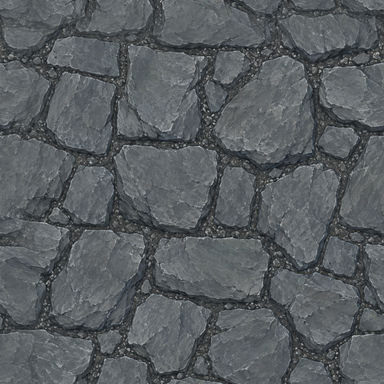
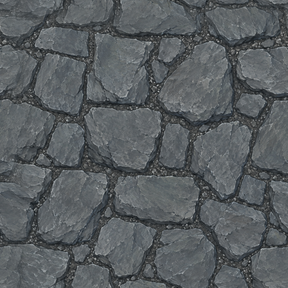
石壁を細かい石積みへ + 左右のリングを薄く + 行き先の通路の口を開ける
ユーザー指摘 3 件への対応。
  ①「周りの壁の、石の画像の縮尺が、大きく感じる」
  ②「幅がありすぎる。もう少し、左右の石壁は特に幅を、薄く」
  ③「行先の選択肢方向の通路が石壁でふさがれている (閉じ込められて見える)」

① 天面素材を再生成 (--tiles 4 -> 3 / --feather 48 -> 32)。ブロック径 72px -> 53px。
   72px = 3/4 タイルはキャラの肩幅とほぼ同じで、見下ろしの石積みとしてはまだ岩が大きかった。
   53px なら「壁の厚み 1 タイルに石が 2 個弱」= 積んだ石として読め、立面のレンガ (約 55x30px)
   とも釣り合う。⚠ --tiles 2 (36px) までは落とさない。反復周期が 2 タイル = 192px しかなくなり、
   南側 2 タイル幅のリングで繰り返しが目に付く。
   ⚠ --block は表示だけで効かない (実際のレバーは --tiles/--feather) と docstring に明記した。

② ROOM_WALL_RING を縦横へ分離: ROOM_WALL_RING_X=1 / ROOM_WALL_RING_Y=2。
   真因は可視域の恒等式が縦横で非対称なこと。1 ノード = 7x6 の部屋では
       縦に映る壁 = (usableH-576)/2 … 実測 27〜85px = 1 タイルに満たない
       横に映る壁 = (usableW-672)/2 … desktop で 141〜164px = 1.5〜1.7 タイル
   同じ R=2 だと南北は 2 枚目が原理的に画面へ入らないのに、左右だけ 2 枚とも入る = 分厚く見える。
   ⚠ RY は 1 へ落とさない (北壁の立面が (ty-1) 行まで 192px 覆うため)。
   ⚠ 効くのは屋内 6 シナリオ全部 (isRoomEdgeWall は共通)。屋外は 1 命令も変わらない。

③ wallOpenTiles を追加。出口の向き (node.exits[].dir + DIR_OPPOSITE[nodeEnteredVia] = 来た道) の
   ゲートタイルの外側だけ、石を敷かない。
   ⚠ mapData は 1 バイトも変えない = 歩行判定・aStar・視線は不変。描画パス専用のマスク。
   ⚠ 床は敷かない (歩けそうに見えるため)。Pass 1a の暗い天井が残って「闇へ続く口」になる。
   ⚠ 抜くのは isVergeCell 1 箇所 + Pass 2b の 1 行。前者でパターン枝・404 枝・端キャップ・
     Pass 2.1 の色寄せが同じ穴になる。
   ⚠ 起動直後の入口ノードは buildNode を通らないので、DIR_OPPOSITE 宣言の直後で 1 回作る
     (nodeEnteredVia より前に置くと TDZ)。松明が口の真下に浮かないよう装飾も組み直す。

検証:
  ・driver_wall_face を 18 -> 21 assert へ拡張し 21/21 PASS。
    - (3b) 追い削りの計測を西 d2 -> 南 d2 へ移した。RX=1 にした結果、西 d2 は石を敷く範囲の外に
      なるので、そのままだと「正しい変更が永久に赤い」検出器になる。南は RY=2 のままなので
[…]

diff --git a/index.html b/index.html
@@ -3968,6 +3968,19 @@
      *   直結しており、岩盤に湧いた敵が可視化されると戦闘開始の前提が変わる (前回の判断を踏襲)。
      * ⚠ 「今の部屋だけ」なのは意図。累積にすると通り過ぎた部屋の外周だけが光って残る。 */
     let wallLitTiles  = Array.from({ length: MAP_H }, () => new Uint8Array(MAP_W));
+    /* ★[通路の口 2026-08-09] wallOpenTiles: 「行き先の通路が抜けている壁セル」=1 → 石を敷かない。
+     *   ユーザー指摘「行先の選択肢方向の通路が石壁でふさがれている (閉じ込められて見える)」の解。
+     *   分岐マップでは 1 ノード = 1 部屋なので、リングを四方へ回した結果**出口の矢印の先まで
+     *   石で塞がって**しまい、隣のノードへ続く道が絵に出ていなかった。
+     * ⚠ null = 「開口なし」= 既存 6 シナリオ / 屋外 / 自作マップ (RUN が無い経路は 1 命令も走らない)。
+     * ⚠ **mapData は 1 バイトも変えない**。ここは描画パス専用のマスクであり、開口セルは今も壁
+     *   (歩行判定・aStar・視線は不変)。石を敷かないので Pass 1a の暗い天井がそのまま残り、
+     *   「石壁に空いた、闇へ続く口」として読める。床を敷くと歩けそうに見えるので敷かない。
+     * ⚠ 寿命はノード。出口の向きはノードごとに違うので buildNode() で必ず作り直す。 */
+    let wallOpenTiles = null;
+    function isWallOpening(tx, ty) {
+      return !!(wallOpenTiles && wallOpenTiles[ty * MAP_W + tx]);
+    }
     let lastVisSignature = "";
 
     // ── 部屋ペインティング(painterly オーバーレイ)──────────────────
@@ -4650,7 +4663,10 @@
 
           // 北壁の真下 → 松明(壁面に取り付ける) — 他の装飾はいったん廃止
           // 旧 h%11 (1/11) は疎すぎて部屋に1個も入らないことがあった → h%5 (1/5) に
-          if (wallN && (h % 5 === 0)) { place(tx, ty, 'torch', -8); continue; }
+          // ★[通路の口 2026-08-09] 開口の真下には吊るさない。石が無い所に松明だけが浮く。
+          if (wallN && (h % 5 === 0) && !isWallOpening(tx, ty - 1)) {
+            place(tx, ty, 'torch', -8); continue;
+          }
         }
       }
       return decos;
@@ -5225,23 +5241,32 @@
     }
 
     /* ★[石壁の可視化 2026-08-08] 部屋を囲む石壁のリング (屋内のみ)。
-     *   「床からチェビシェフ距離 ROOM_WALL_RING 以内にある壁セル」を Pass 2 が石で塗る。
+     *   「床から X 方向 RX / Y 方向 RY 以内にある壁セル」を Pass 2 が石で塗る。
      *   これ以前は isNorthWall (= 北側だけ) しか塗っていなかったので、1ノード=1部屋になった
      *   分岐マップでは**部屋が黒い虚空に浮いて**見えていた (下・左・右が SPR_CEILING の純黒)。
-     * ⚠ 距離は**チェビシェフ (斜めも 1)** であること。4近傍で数えると部屋の四隅が 1 枚だけ
+     * ⚠ 範囲は**矩形 (斜めも含む)** であること。4近傍で数えると部屋の四隅が 1 枚だけ
      *   塗り残されて黒く欠ける (角の壁セルは床と斜めにしか接していないため)。
-     * ⚠ ROOM_WALL_RING を増やしても**北壁の高さは変わらない**。北壁は Pass 2 側で
-     *   isNorthWall のセルだけ (ty-1)*96 から 192px の「正面が見える壁」として描くため、
-     *   北側の石の帯は R によらず常に 2 タイル分になる (R=1 でも R=3 でも同じ)。
-     *   厚みが効くのは南・東・西だけ。ここは意図した非対称 (見下ろし視点の約束事)。
+     *
+     * ★[2026-08-09] 縦横を分けた。ユーザー指摘「幅がありすぎる。左右の石壁は特に薄く」の解。
+     *   真因は**可視域の恒等式が縦横で非対称**なこと。1 ノード = 7x6 の部屋では
+     *       縦に映る壁 = (usableH - 576) / 2 … 実測 27〜85px = **1 タイルに満たない**
+     *       横に映る壁 = (usableW - 672) / 2 … desktop で 141〜164px = **1.5〜1.7 タイル**
+     *   つまり R を縦横で同じ 2 にすると、南北は 2 枚目が原理的に画面へ入らないのに、
+     *   左右だけ 2 枚とも入って「分厚い石の塊」に見える。RX だけ 1 に落とすと左右の石は
+     *   96px で終わり、その外は未探索の暗黒 = 「壁の向こうは闇」になる (意図した見え方)。
+     * ⚠ RY を 1 に落としてはいけない。北壁の立面は (ty-1) 行まで 192px で覆うので、
+     *   wallLitTiles の範囲が 1 行になると立面の上端が暗幕に沈む。
+     * ⚠ RX を増やしても**北壁の高さは変わらない**。北壁は Pass 2 側で isNorthWall のセルだけ
+     *   (ty-1)*96 から 192px の「正面が見える壁」として描くため、北側の帯は R によらない。
      * ⚠ mapData そのものは 1 バイトも変えない = 歩行判定・aStar・視線 (isTileWall) は不変。
      *   ここは**描画パス専用の述語**であり、壁が増えたわけではない。 */
-    const ROOM_WALL_RING = 2;
+    const ROOM_WALL_RING_X = 1;   // 東西 (左右) の厚み
+    const ROOM_WALL_RING_Y = 2;   // 南北の厚み。★立面の 2 行を賄うので 1 へ落とさないこと
     function isRoomEdgeWall(tx, ty) {
       if (tx < 0 || tx >= MAP_W || ty < 0 || ty >= MAP_H) return false;
       if (mapData[ty][tx] !== 2) return false;
-      const y0 = Math.max(0, ty - ROOM_WALL_RING), y1 = Math.min(MAP_H - 1, ty + ROOM_WALL_RING);
-      const x0 = Math.max(0, tx - ROOM_WALL_RING), x1 = Math.min(MAP_W - 1, tx + ROOM_WALL_RING);
+      const y0 = Math.max(0, ty - ROOM_WALL_RING_Y), y1 = Math.min(MAP_H - 1, ty + ROOM_WALL_RING_Y);
+      const x0 = Math.max(0, tx - ROOM_WALL_RING_X), x1 = Math.min(MAP_W - 1, tx + ROOM_WALL_RING_X);
       for (let y = y0; y <= y1; y++) {
         const row = mapData[y];
         for (let x = x0; x <= x1; x++) if (row[x] !== 2) return true;
@@ -5316,7 +5341,7 @@
          *   すぐ隣の現在視界の床 (約 45) と同等〜わずかに明るい = 「たいまつが壁を照らしている」絵。
          *   これを入れないと壁は 28 で床 45 より暗く、作り込んだ天面が黒い縁にしか見えない。
          * ⚠ 上げすぎないこと。壁がフォグより明るくなると「岩盤の向こうまで見えている」絵になる。
-         *   未探索の暗黒契約そのものは wallLitTiles の範囲外 (ROOM_WALL_RING の外) で守られている。
+         *   未探索の暗黒契約そのものは wallLitTiles の範囲外 (リングの外) で守られている。
          * ⚠ 記憶レイヤーとは Path2D を分ける。同じパスに混ぜると記憶だけの床まで明るくなる。
          * ⚠ 塗りは 1 回にまとめる (Path2D)。タイルごとに fillRect すると camX が小数のとき
          *   境界がアンチエイリアスされて 96px 格子の筋が残る (記憶レイヤーと同じ真因)。 */
@@ -6520,9 +6545,16 @@
        *    実際 driver_mapdef_step1 の golden 8 件のうち **caravan-road(横持ち/帯マスクなし)** だけが
        *    赤くなって発覚した (縦持ちは FIELD_DRAW=true なので無傷 = 負のコントロールが効いた)。
        *    → テーマそのもの (IS_FIELD_THEME) で締める。屋外は縦横どちらでも従来どおり北壁だけ。 */
+      /* ★[通路の口 2026-08-09] 屋内のリングから**行き先の通路の口を抜く**。
+       * ⚠ ここ 1 箇所で抜けば、パターン枝・404 のフォールバック枝・端キャップ判定・Pass 2.1 の
+       *   色寄せが**全部同じ穴**になる。片方だけに書くと 404 時や初回フレームだけ石が残る
+       *   (isNorthWall を片方に書き忘れた前例と同型の罠)。立面 (Pass 2b) だけは述語が
+       *   isNorthWall なので、あちらにも 1 行足してある。
+       * ⚠ 屋外の式は 1 文字も変えていない。wallOpenTiles は RUN が無ければ常に null。 */
       const isVergeCell = FIELD_DRAW
         ? (tx, ty) => (ty === FIELD_HORIZON_ROW) || isNorthWall(tx, ty)
-        : (IS_FIELD_THEME ? isNorthWall : isRoomEdgeWall);
+        : (IS_FIELD_THEME ? isNorthWall
+                          : (tx, ty) => isRoomEdgeWall(tx, ty) && !isWallOpening(tx, ty));
       /* ★[石壁の作り込み 2026-08-09] 専用の立面素材を持つシナリオでは、北壁だけ別ループで
        *   drawImage する (Pass 2b)。
        * ⚠ パターン枝とフォールバック枝の**両方**で北壁セルを飛ばすこと。片方だけだと
@@ -6604,6 +6636,7 @@
         for (let ty = ty0; ty <= endTY; ty++) {
           for (let tx = startTX; tx <= endTX; tx++) {
             if (!isNorthWall(tx, ty)) continue;
+            if (isWallOpening(tx, ty)) continue;      // ★通路の口 = 立面も抜く (上へ続く道)
             if (isPaintedAndLoaded(tx, ty)) continue;
             ctx.drawImage(wallFaceImg, (((tx % fCols) + fCols) % fCols) * TILE_SIZE, 0, TILE_SIZE, fH,
                           Math.round(tx * TILE_SIZE - camX), Math.round(wallRectY(tx, ty) - camY),
@@ -14191,8 +14224,8 @@
        *   実測 (廃坑 n0・パーティは部屋の中央 / α は 255=黒 178=記憶 0=明るい):
        *       床(部屋の西端) α=21   ←ここまでは明るい
        *       西壁 d1 α=152 / 西壁 d2 α=255 / 東壁 d1 α=255 / 南壁 d1・d2 α=255
-       *   この marking が無いと ROOM_WALL_RING=2 の外周は**常に完全な黒**で、描画は丸損になる。
-       * ⚠ 範囲は ROOM_WALL_RING に揃えること。Pass 2 が石を敷く範囲とここが食い違うと
+       *   この marking が無いとリングの外周は**常に完全な黒**で、描画は丸損になる。
+       * ⚠ 範囲は isRoomEdgeWall と**同じ RX/RY** に揃えること。石を敷く範囲とここが食い違うと
        *   「石を敷いたのに真っ黒」か「何も無い所を照らしている」のどちらかが必ず起きる。
        * ⚠⚠ visibleTiles には**入れない**。あれは isEnemyVisibleToParty の伏兵判定に直結していて、
        *   岩盤に湧いた敵 (P4.7 で見つかった既知の潜在バグ) がここ経由で可視化されると
@@ -14200,14 +14233,14 @@
        * ⚠ driver_graph_run の (2g) が数えるフォグ矩形 (row18-20 / col24-27) はパーティから
        *   9〜12 タイル離れた岩盤なので R=2 では届かない = 非退行 (全数緑で実測確認済)。 */
       if (!IS_FIELD_THEME) {                           // 屋外は暗幕が無い (renderLighting が即 return)
-        const WR = ROOM_WALL_RING;
+        const WRX = ROOM_WALL_RING_X, WRY = ROOM_WALL_RING_Y;
         for (let ty = 0; ty < MAP_H; ty++) {
           const visRow = visibleTiles[ty];
           for (let tx = 0; tx < MAP_W; tx++) {
             if (!visRow[tx]) continue;
             if (mapData[ty][tx] === 2) continue;       // 「見えている床」の周りだけを開ける
-            const y0 = Math.max(0, ty - WR), y1 = Math.min(MAP_H - 1, ty + WR);
-            const x0 = Math.max(0, tx - WR), x1 = Math.min(MAP_W - 1, tx + WR);
+            const y0 = Math.max(0, ty - WRY), y1 = Math.min(MAP_H - 1, ty + WRY);
+            const x0 = Math.max(0, tx - WRX), x1 = Math.min(MAP_W - 1, tx + WRX);
             for (let y = y0; y <= y1; y++) {
               // ★[2026-08-09] 記憶 (累積) と「今照らされている」(毎回クリア) を同じ範囲で同時に立てる。
               //   範囲が食い違うと「石を敷いたのに黒い」か「何も無い所を照らす」のどちらかが必ず起きる。
@@ -29171,6 +29204,45 @@
       clearNodeTimers();
     }
 
+    /* ★[通路の口 2026-08-09] このノードから道が伸びている向きだけ、リングに穴を開ける。
+     *   口の位置は **nodeGateTile(MAPDEF, dir)** の外側 = 矢印が立つタイルの真正面なので、
+     *   「矢印の指す先に道が抜けている」が絵として一致する。
+     * ⚠ 向きの出所は 2 つあり、**両方**要る:
+     *     ① node.exits[].dir       … 前進する枝
+     *     ② DIR_OPPOSITE[nodeEnteredVia] … 来た道 (親へ引き返す口)。データには書かれていない
+     *        (親は木構造で 1 つしかなく、手書きすると必ず食い違う = exitsWithReturn と同じ理由)
+     *   ②を落とすと「入ってきたはずの道が、振り返ると石で塞がっている」絵になる。
+     * ⚠ 深さは max(RX,RY)+1 まで掘るが、**床に当たったら即やめる** (mapData!==2 で break)。
+     *   部屋どうしが隣接している盤面で、隣の部屋の床まで穴を伸ばさないため。
+     * ⚠ RUN が無い経路 (既存 6 シナリオ / 屋外 / 自作マップ) は wallOpenTiles=null のまま =
+     *   isWallOpening が常に false = 1 命令も変わらない。 */
+    function rebuildWallOpenings(nodeId) {
+      wallOpenTiles = null;
+      if (!RUN) return;
+      const node = RUN.byId[nodeId];
+      if (!node) return;
+      const dirs = new Set();
+      for (const ex of (node.exits || [])) if (ex.dir) dirs.add(ex.dir);
+      if (RUN.parent[node.id] && nodeEnteredVia && DIR_OPPOSITE[nodeEnteredVia]) {
+        dirs.add(DIR_OPPOSITE[nodeEnteredVia]);
+      }
+      if (!dirs.size) return;
+      const mask = new Uint8Array(MAP_W * MAP_H);
+      const DEPTH = Math.max(ROOM_WALL_RING_X, ROOM_WALL_RING_Y) + 1;
+      for (const dir of dirs) {
+        const g = nodeGateTile(MAPDEF, dir);
+        const dx = dir === "left" ? -1 : dir === "right" ? 1 : 0;
+        const dy = dir === "up"   ? -1 : dir === "down"  ? 1 : 0;
+        for (let k = 1; k <= DEPTH; k++) {
+          const tx = g.tx + dx * k, ty = g.ty + dy * k;
+          if (tx < 0 || tx >= MAP_W || ty < 0 || ty >= MAP_H) break;
+          if (mapData[ty][tx] !== 2) break;          // 床に出た = そこは通路ではない
+          mask[ty * MAP_W + tx] = 1;
+        }
+      }
+      wallOpenTiles = mask;
+    }
+
     /* ★唯一の構築点。起動シーケンス (幾何 → 派生定数 → フォグ → 1枚絵 → 情景 → スポーン) を
      * **同じ順序で**再実行する。mapDef を省略すると現在ノードを作り直す (= ?renode の同一再入場)。
      * ⚠ 順序を崩さないこと。実際の依存:
@@ -29178,6 +29250,7 @@
      *     buildDecorations()  は mapData を読む   → mapData より後
      *     generateScenery()   は ENEMY_SPAWNS と起点を読み obstacleTileMask を作る
      *     spawnTraps 等       は mapData / EXCLUDED_ROOMS を読む → 派生定数より後 */
+    /* ※ 直前に定義してある rebuildWallOpenings も、この順序の一部 (mapData の直後に呼ぶ)。 */
     function buildNode(mapDef, nodeId) {
       if (mapDef) MAPDEF = mapDef;
       // ── 幾何 (index.html 3400〜3510 行台の写し。式は 1 文字も変えていない) ──
@@ -29185,6 +29258,9 @@
       CORRIDORS = MAPDEF.corridors;
       if (window.DFMapDef) MAP_USED = DFMapDef.mapUsed(MAPDEF);
       mapData = buildMap();
+      /* ★[通路の口 2026-08-09] mapData の直後・buildDecorations の前に必ず置く。
+       *   ⚠ 前だと mapData を読めない / 後だと松明が開口の真下へ吊るされる。 */
+      rebuildWallOpenings(nodeId || currentNodeId);
       // ── MAPDEF からの派生定数 ──
       START_TX = MAPDEF.start.tx; START_TY = MAPDEF.start.ty;
       BOSS_ROOM_IDX = window.DFMapDef ? DFMapDef.bossRoomIdx(MAPDEF) : ROOMS.length - 1;
@@ -29292,6 +29368,24 @@
     const NODE_FADE_MS = 300;      // CSS #nodeFade の transition と**同じ値**にすること
 
     const DIR_OPPOSITE = { up: "down", down: "up", left: "right", right: "left" };
+    /* ★[通路の口 2026-08-09] 起動直後の入口ノードは buildNode を通らない (冒頭の boot 経路が
+     *   mapData を直に組む) ので、ここで 1 回だけ開口を作る。
+     * ⚠ 置き場所は **DIR_OPPOSITE と nodeEnteredVia の宣言より後**。rebuildWallOpenings は
+     *   両方を読むので、前に置くと入口ノードだけ TDZ で落ちる (n0 に親が無く短絡するため
+     *   「たまたま動く」形になり、P6 で入口に親を持つグラフを書いた瞬間に壊れる)。
+     * ⚠ 松明 (buildDecorations) は起動シーケンスの中で既に走っている。開口の真下を避ける
+     *   判定はマスクが無いと効かないので、口が開いたときだけ**装飾を組み直す**。
+     *   buildDecorations は mapData 由来の決定論 (tileHash) なので Math.random に触らない。 */
+    if (RUN) {
+      rebuildWallOpenings(currentNodeId);
+      /* ⚠ 差し替えは buildNode と**同じ「中身を入れ替える」書き方**にする。束縛ごと差し替えると
+       *   clearNodeArrays が握っている配列と別物になり、遷移時に古い装飾が消えなくなる。 */
+      if (wallOpenTiles) {
+        const ds = buildDecorations();
+        decorations.length = 0;
+        for (const d of ds) decorations.push(d);
+      }
+    }
     // 選択肢の見出し。P3 で矢印 UI になっても**文言はここが唯一の出所**にする。
     const DIR_LABELS = { up: "奥へ進む", down: "手前へ戻る道", left: "西へ進む", right: "東へ進む" };
 

diff --git a/tools/driver_wall_face.js b/tools/driver_wall_face.js
@@ -121,6 +121,20 @@ const MEASURE = function () {
     }
   }
 
+  /* 南壁 (リング d1/d2)。★[2026-08-09] リングを縦横で分けた (RX=1 / RY=2) ので、
+   *   「2 枚目まで石が敷かれている」ことを測れるのは**南北だけ**になった。
+   * ⚠ 南のセルは mapCanvas では画面外だが **lightingCanvas は画面いっぱいにある**
+   *   (カメラのクランプは HUD を除いた usable 矩形が基準で、canvas 自体は HUD の下まで
+   *   伸びている) ので α は読める。 */
+  let south = null;
+  {
+    let ty = pick.ty + 1;
+    while (ty + 1 < H && md[ty + 1][pick.tx] !== 2) ty++;   // ty = この列の最下の床行
+    if (ty + 2 < H && md[ty + 1][pick.tx] === 2 && md[ty + 2][pick.tx] === 2) {
+      south = { tx: pick.tx, d1: ty + 1, d2: ty + 2 };
+    }
+  }
+
   const mctx = mc.getContext('2d');
   const stat = function (x, y, w, h) {
     const iw = Math.round(w), ih = Math.round(h);
@@ -158,14 +172,33 @@ const MEASURE = function () {
     return lctx.getImageData(x, y, 1, 1).data[3];
   };
 
+  /* ★[通路の口 2026-08-09] 北向きの出口がある列は、壁帯が**抜けている** (石を敷かない) はず。
+   *   同じ帯の高さで「口の列」と「2 つ隣の列」を比べる = 素材の明るさではなく
+   *   **敷いた / 敷いていない**だけを見る。列は実装 (__graphRun.exits) から借りるので、
+   *   ドライバが midC の式 (floor((c1+c2)/2)) を写経しない。 */
+  let open = null;
+  try {
+    const ups = (g.exits ? g.exits() : []).filter(e => e.dir === 'up' && e.at);
+    if (ups.length && bandH >= 8) {
+      const gx = ups[0].at.tx;
+      const sxO = gx * T - cam.camX, sxW = (gx + 2) * T - cam.camX;
+      const yb = pick.sy - bandH;
+      if (sxO >= 0 && sxO + T <= mc.width && sxW >= 0 && sxW + T <= mc.width && yb >= 0) {
+        open = { gx: gx, hole: stat(sxO, yb, T, bandH), stone: stat(sxW, yb, T, bandH) };
+      }
+    }
+  } catch (e) { open = { err: String(e && e.message) }; }
+
   return {
-    tile: T, pick: pick, west: west, bandH: bandH, wall: wall, floor: floor,
+    tile: T, pick: pick, west: west, bandH: bandH, wall: wall, floor: floor, open: open,
     faceW: window.__wallFaceImg ? window.__wallFaceImg.naturalWidth : null,
     faceH: window.__wallFaceImg ? window.__wallFaceImg.naturalHeight : null,
     topW: window.__wallTopImg ? window.__wallTopImg.naturalWidth : null,
     topH: window.__wallTopImg ? window.__wallTopImg.naturalHeight : null,
     aWallD1: west ? alphaAt(west.tx, west.ty) : null,
     aWallD2: west ? alphaAt(west.tx - 1, west.ty) : null,
+    aSouthD1: south ? alphaAt(south.tx, south.d1) : null,
+    aSouthD2: south ? alphaAt(south.tx, south.d2) : null,
     aFloor: alphaAt(pick.tx, pick.ty + 2),
   };
 };
@@ -255,8 +288,10 @@ async function playShot(page, file) {
     await dumpCanvas(page, path.join(SHOT_DIR, 'desktop_map.png'));
     if (M.err) { check('(0) 北壁が画面に入っている', false, M.err); throw new Error(M.err); }
     console.log('[drv] wall ' + JSON.stringify(M.wall) + '\n[drv] floor ' + JSON.stringify(M.floor));
-    console.log('[drv] α wallD1=' + M.aWallD1 + ' wallD2=' + M.aWallD2 + ' floor=' + M.aFloor
+    console.log('[drv] α wallD1=' + M.aWallD1 + ' wallD2=' + M.aWallD2
+      + ' southD1=' + M.aSouthD1 + ' southD2=' + M.aSouthD2 + ' floor=' + M.aFloor
       + ' / 帯の高さ=' + M.bandH + 'px / pick=' + JSON.stringify(M.pick));
+    console.log('[drv] open ' + JSON.stringify(M.open));
 
     check('(1a) 立面素材が読めている / 幅は tile の整数倍', M.faceW > 0 && M.faceW % M.tile === 0,
       'faceW=' + M.faceW + ' tile=' + M.tile);
@@ -302,12 +337,38 @@ async function playShot(page, file) {
      *   編成が変わっても動かない (負のコントロール実測もぴたり 178 だった)。
      *   壁専用の削りが乗ると 0.70*(1-0.32)*255 = 121 が上限で、実測は 104〜121 に散る
      *   (仲間の職業で光の半径が変わり d2 にも僅かに届くため。**片側だけが散る**のがミソ)。
-     *   → 閾値 170 は「壁専用の削りが本当に走っているか」を 1 ビットで測っている。 */
-    check('(3b) ★西壁 d2 に壁専用の追い削りが乗っている (記憶のみの 178 ではない)',
-      M.aWallD2 != null && M.aWallD2 < 170, 'α=' + M.aWallD2 + ' (記憶のみなら 178)');
+     *   → 閾値 170 は「壁専用の削りが本当に走っているか」を 1 ビットで測っている。
+     * ⚠⚠ [2026-08-09] 測る場所を**西 d2 → 南 d2** へ移した。リングを縦横で分けた
+     *   (RX=1 / RY=2) 結果、西の d2 はもう石を敷く範囲の外なので、ここを西で測ると
+     *   「左右を薄くした」という正しい変更が永久に赤くなる。南は RY=2 のまま = 2 枚目まで
+     *   石があるので、この assert の判別力 (178 に張り付くか否か) はそのまま生きる。 */
+    check('(3b) ★南壁 d2 に壁専用の追い削りが乗っている (記憶のみの 178 ではない)',
+      M.aSouthD2 != null && M.aSouthD2 < 170, 'α=' + M.aSouthD2 + ' (記憶のみなら 178)');
     check('(3c) それでも床より暗い (壁が光源になっていない)',
       M.aWallD1 != null && M.aFloor != null && M.aWallD1 > M.aFloor,
       'wall=' + M.aWallD1 + ' floor=' + M.aFloor);
+    /* ★[2026-08-09] ユーザー要望「左右の石壁は特に幅を薄く」の非退行。
+     *   西 d1 は石 (3a で下限を見ている) / 西 d2 は**石を敷く範囲の外**であることを測る。
+     *   ⚠ ROOM_WALL_RING_X を 2 へ戻すと d2 が 121 前後まで持ち上がってここが赤くなる =
+     *     「左右がまた分厚くなった」を 1 ビットで捕まえられる。南 (3b) と対になっている。 */
+    check('(3d) ★左右のリングが 1 タイルで終わっている (西 d2 は石の範囲外)',
+      M.aWallD2 != null && M.aWallD2 > 170,
+      'westD2 α=' + M.aWallD2 + ' / southD2 α=' + M.aSouthD2 + ' (石なら 104〜121)');
+
+    // ══ §3.5 通路の口が壁に抜けているか ════════════════════════════════════════
+    mark('出口の列で壁帯が抜けているか (通路の口)');
+    /* ★ユーザー指摘「行先の選択肢方向の通路が石壁でふさがれている」の非退行。
+     * ⚠ **明るさの絶対値では測らない**。素材を差し替えるたびに閾値が腐る。同じ帯・同じ高さで
+     *   「口の列」と「2 つ隣の列」を比べ、口の方が**桁で暗い**ことだけを見る
+     *   (口には Pass 1a の暗い天井しか残らない = 石を 1px も敷いていない状態)。 */
+    check('(3e) 出口の列を測れている (__graphRun.exits から借りた列が画面内)',
+      !!(M.open && M.open.hole && M.open.stone), JSON.stringify(M.open));
+    if (M.open && M.open.hole && M.open.stone) {
+      check('(3f) ★通路の口には石が敷かれていない (隣の壁より暗い)',
+        M.open.hole.L <= M.open.stone.L * 0.5,
+        '口 L=' + M.open.hole.L.toFixed(1) + ' / 壁 L=' + M.open.stone.L.toFixed(1)
+        + ' = ' + (M.open.hole.L / Math.max(0.01, M.open.stone.L)).toFixed(2) + '倍');
+    }
 
     // ══ §4 性能: 周期スパイクが出ていないか ════════════════════════════════════
     mark('renderMap の周期スパイク (N=400)');

diff --git a/tavern.html b/tavern.html
@@ -1984,10 +1984,10 @@
     <div id="changelogBox">
       <div class="changelogHeader">📜 更新情報</div>
       <ul class="changelogList">
+        <li><b>石壁を細かい石積みに直し、通路の口を開けた</b> — 壁の石をひとまわり小さくし、左右の壁を薄くした。進める方角には壁が抜けていて、その先の闇へ道が続いて見える。</li>
         <li><b>ダンジョンの壁を石積みに描き直した</b> — 部屋のまわりに石壁が立ち上がり、たいまつの明かりで石の目地まで浮かび上がるようになった。</li>
         <li><b>部屋の四方に石壁が見えるようになりました</b> — 上下左右を白っぽい岩肌で囲み、壁ぎわに影を落として奥行きを出しました。</li>
         <li><b>選択肢が画面下の帯に出るようになった</b> — 仲間や敵の立ち位置を見ながら選べる。選んでいる間は戦闘ログを伏せる。</li>
-        <li><b>廃坑が分かれ道のあるダンジョンに</b> — 坑道の入口から先は道が枝分かれします。矢印と羊皮紙のささやきを頼りに進む先を選び、見張りの詰所・横穴の呻き声・玉座の交渉に出会ってください。</li>
       </ul>
     </div>
     <script>

diff --git a/tools/make_wall_top.py b/tools/make_wall_top.py
@@ -12,7 +12,19 @@ make_wall_face.py との違い (共有できない理由):
   生成物は 1254x1254 で、天面ブロックの周期は行 231px / 列 187px。これを等倍で敷くと
   1 ブロックが 2〜2.4 タイル (192〜231px) になり、**キャラ 1 人 (体高 57px) より大きい岩**が
   並ぶ。屋外の床で 2026-07-30 に踏んだのと同じ失敗 (「地面の葉っぱが大きすぎる」の真犯人が
-  等倍敷きだった) なので、ブロック 72px 前後 = 3/4 タイルまで落とす。
+  等倍敷きだった) なので、ブロック 53px 前後 = 半タイルまで落とす。
+
+  ⚠ 1 度目は 72px (--tiles 4) で出荷したが、実機の見た目で「石の画像の縮尺が大きく感じる」と
+    再指摘された (2026-08-09)。72px = 3/4 タイルは**キャラの肩幅とほぼ同じ**で、見下ろしの
+    石積みとしてはまだ岩が大きい。53px (--tiles 3 --feather 32) にすると「壁の厚み 1 タイルに
+    石が 2 個弱」= 積んだ石として読める寸法になる。⚠ これ以上落とす (--tiles 2 = 36px) と
+    反復周期が 2 タイル = 192px しかなくなり、南側 2 タイル幅のリングで繰り返しが目に付く。
+
+  ⚠ **--block は「目標値の表示」だけで、実際に効くのは --tiles と --feather**。
+    出力寸法は tiles*96 に固定 (driver_wall_face の (1c) が「正方形 かつ tile の整数倍」を
+    要求する) ので、ブロック径は
+        block = 周期209 * (tiles*96 + feather) / 1254
+    でしか動かせない。狙いの径から tiles を逆算して渡すこと。
   ⚠⚠ **縮小は Pillow 側で行い、小さい PNG を出荷すること。** JS 側でオフスクリーン canvas へ
     縮小してから createPattern すると、renderMap に 7.5 秒級の周期スパイクが出る
     (index.html の wallTex1.onload の ⚠⚠⚠ に実測値。p50 は無傷なので目視では見つからない)。
